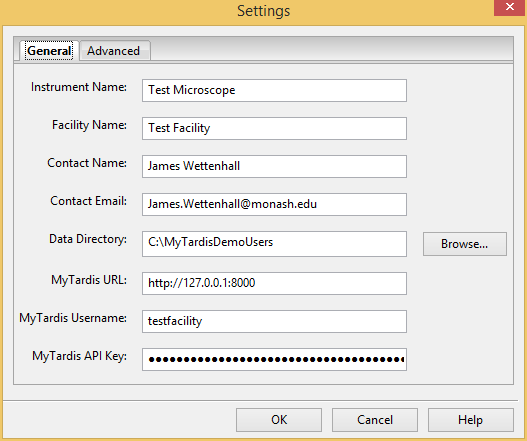
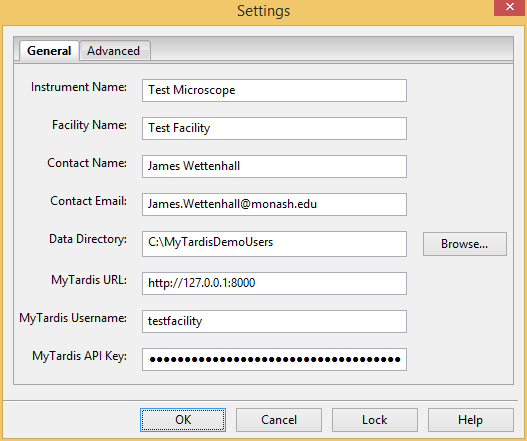
New Lock/Unlock feature in SettingsDialog allows locking settings to make it difficult to accidentally modify settings which shouldn't be modified in a production workflow, e.g. "folder structure".

diff --git a/SettingsDialog.py b/SettingsDialog.py
@@ -6,6 +6,7 @@ import threading
 from datetime import datetime
 import sys
 import os
+import traceback
 
 from logger.Logger import logger
 from SettingsModel import SettingsModel
@@ -332,6 +333,13 @@ class SettingsDialog(wx.Dialog):
         self.helpButton = wx.Button(self, wx.ID_HELP, "Help")
         buttonSizer.AddButton(self.helpButton)
 
+        # We need to use one of the standard IDs recognized by
+        # StdDialogSizer:
+        self.lockOrUnlockButton = wx.Button(self, wx.ID_APPLY, "Lock")
+        buttonSizer.AddButton(self.lockOrUnlockButton)
+        self.Bind(wx.EVT_BUTTON, self.OnLockOrUnlockSettings,
+                  self.lockOrUnlockButton)
+
         self.cancelButton = wx.Button(self, wx.ID_CANCEL, "Cancel")
         buttonSizer.AddButton(self.cancelButton)
         buttonSizer.Realize()
@@ -461,6 +469,25 @@ class SettingsDialog(wx.Dialog):
     def SetMaxUploadThreads(self, numberOfThreads):
         self.maximumUploadThreadsSpinCtrl.SetValue(numberOfThreads)
 
+    def Locked(self):
+        return self.lockOrUnlockButton.GetLabel() == "Unlock"
+
+    def SetLocked(self, locked):
+        """
+        When SettingsDialog is first displayed, it is in the unlocked
+        state, so the button label says "Lock" (allowing the user to
+        switch to the locked state).  When MyData reads the saved
+        settings from disk, if it finds that settings were saved in
+        the locked state, it will lock (disable) all of the dialog's
+        fields.
+        """
+        if locked:
+            self.DisableFields()
+            self.lockOrUnlockButton.SetLabel("Unlock")
+        else:
+            self.EnableFields()
+            self.lockOrUnlockButton.SetLabel("Lock")
+
     def OnCancel(self, event):
         self.EndModal(wx.ID_CANCEL)
 
@@ -540,6 +567,7 @@ class SettingsDialog(wx.Dialog):
             settingsModel.GetIgnoreOldDatasetIntervalUnit())
         self.SetMaxUploadThreads(settingsModel.GetMaxUploadThreads())
         self.SetCheckForMissingFolders(settingsModel.CheckForMissingFolders())
+        self.SetLocked(settingsModel.Locked())
 
     def OnPaste(self, event):
         textCtrl = wx.Window.FindFocus()
@@ -623,7 +651,8 @@ class SettingsDialog(wx.Dialog):
     def OnHelp(self, event):
         wx.BeginBusyCursor()
         import webbrowser
-        webbrowser.open("http://mydata.readthedocs.org/en/latest/settings.html")
+        webbrowser\
+            .open("http://mydata.readthedocs.org/en/latest/settings.html")
         wx.EndBusyCursor()
 
     def OnSelectFolderStructure(self, event):
@@ -648,6 +677,14 @@ class SettingsDialog(wx.Dialog):
             self.groupPrefixField.Show(True)
 
     def OnDropFiles(self, filepaths):
+        if self.Locked():
+            message = \
+                "Please unlock MyData's settings before importing " \
+                "a configuration file."
+            dlg = wx.MessageDialog(None, message, "MyData - Settings Locked",
+                                   wx.OK | wx.ICON_INFORMATION)
+            dlg.ShowModal()
+            return
         self.settingsModel.SetConfigPath(filepaths[0])
         self.settingsModel.LoadSettings()
         self.UpdateFieldsFromModel(self.settingsModel)
@@ -660,3 +697,84 @@ class SettingsDialog(wx.Dialog):
         else:
             self.groupPrefixLabel.Show(False)
             self.groupPrefixField.Show(False)
+
+    def OnLockOrUnlockSettings(self, event):
+        if self.lockOrUnlockButton.GetLabel() == "Lock":
+            message = "Once settings have been locked, only an administrator " \
+                "will be able to unlock them.\n\n" \
+                "Are you sure you want to lock MyData's settings?"
+            confirmationDialog = \
+                wx.MessageDialog(None, message, "MyData - Lock Settings",
+                                 wx.YES | wx.NO | wx.ICON_QUESTION)
+            okToLock = confirmationDialog.ShowModal()
+            if okToLock != wx.ID_YES:
+                return
+            lockingSettings = True
+            unlockingSettings = False
+            logger.debug("Locking settings.")
+            self.lockOrUnlockButton.SetLabel("Unlock")
+        else:
+            lockingSettings = False
+            unlockingSettings = True
+            logger.debug("Requesting privilege elevation and "
+                         "unlocking settings.")
+            if sys.platform.startswith("win"):
+                import win32com.shell.shell as shell
+                import win32con
+                from win32com.shell import shellcon
+                import ctypes
+                runningAsAdmin = ctypes.windll.shell32.IsUserAnAdmin()
+                params = "--version "
+
+                if not runningAsAdmin:
+                    logger.info("Attempting to run \"%s --version\" "
+                                "as an administrator." % sys.executable)
+                    try:
+                        procInfo = shell.ShellExecuteEx(
+                            nShow=win32con.SW_SHOWNORMAL,
+                            fMask=shellcon.SEE_MASK_NOCLOSEPROCESS,
+                            lpVerb='runas',
+                            lpFile=sys.executable,
+                            lpParameters=params)
+                        procHandle = procInfo['hProcess']
+                    except:
+                        logger.error("User privilege elevation failed.")
+                        logger.debug(traceback.format_exc())
+                        return
+            elif sys.platform.startswith("darwin"):
+                logger.info("Attempting to run "
+                            "\"echo MyData privilege elevation\" "
+                            "as an administrator.")
+                returncode = os.system("osascript -e "
+                                       "'do shell script "
+                                       "\"echo MyData privilege elevation\" "
+                                       "with administrator privileges'")
+                if returncode != 0:
+                    raise Exception("Failed to get admin privileges.")
+            self.lockOrUnlockButton.SetLabel("Lock")
+
+        self.EnableFields(unlockingSettings)
+
+    def EnableFields(self, enabled=True):
+        self.instrumentNameField.Enable(enabled)
+        self.facilityNameField.Enable(enabled)
+        self.contactNameField.Enable(enabled)
+        self.contactEmailField.Enable(enabled)
+        self.dataDirectoryField.Enable(enabled)
+        self.browseDataDirectoryButton.Enable(enabled)
+        self.myTardisUrlField.Enable(enabled)
+        self.usernameField.Enable(enabled)
+        self.apiKeyField.Enable(enabled)
+        self.folderStructureComboBox.Enable(enabled)
+        self.datasetGroupingField.Enable(enabled)
+        self.groupPrefixField.Enable(enabled)
+        self.checkForMissingFoldersCheckBox.Enable(enabled)
+        self.ignoreDatasetsOlderThanCheckBox.Enable(enabled)
+        self.ignoreDatasetsOlderThanSpinCtrl\
+            .Enable(enabled)
+        self.intervalUnitsComboBox.Enable(enabled)
+        self.maximumUploadThreadsSpinCtrl.Enable(enabled)
+        self.Update()
+
+    def DisableFields(self):
+        self.EnableFields(False)

diff --git a/SettingsModel.py b/SettingsModel.py
@@ -45,6 +45,23 @@ class SettingsModel():
     def __init__(self, configPath=None):
         self.SetConfigPath(configPath)
 
+        self.background_mode = "False"
+
+        self.uploaderModel = None
+        self.uploadToStagingRequest = None
+        self.sshKeyPair = None
+
+        self.validation = self.SettingsValidation(True)
+        self.incompatibleMyTardisVersion = False
+
+        self.LoadSettings()
+
+    def LoadSettings(self, configPath=None):
+        """
+        Sets some default values for settings fields, then loads a settings
+        file,
+        e.g. C:\Users\jsmith\AppData\Local\Monash University\MyData\MyData.cfg
+        """
         self.instrument_name = ""
         self.instrument = None
         self.facility_name = ""
@@ -65,18 +82,8 @@ class SettingsModel():
         self.max_upload_threads = 5
         self.check_for_missing_folders = False
 
-        self.background_mode = "False"
+        self.locked = False
 
-        self.uploaderModel = None
-        self.uploadToStagingRequest = None
-        self.sshKeyPair = None
-
-        self.validation = self.SettingsValidation(True)
-        self.incompatibleMyTardisVersion = False
-
-        self.LoadSettings()
-
-    def LoadSettings(self, configPath=None):
         if configPath is None:
             configPath = self.GetConfigPath()
 
@@ -92,7 +99,7 @@ class SettingsModel():
                           "username", "api_key", "folder_structure",
                           "dataset_grouping", "group_prefix",
                           "ignore_interval_unit", "max_upload_threads",
-                          "check_for_missing_folders"]
+                          "check_for_missing_folders", "locked"]
                 for field in fields:
                     if configParser.has_option(configFileSection, field):
                         self.__dict__[field] = \
@@ -117,6 +124,10 @@ class SettingsModel():
                     self.check_for_missing_folders = \
                         configParser.getboolean(configFileSection,
                                                 "check_for_missing_folders")
+                if configParser.has_option(configFileSection,
+                                           "locked"):
+                    self.locked = configParser.getboolean(configFileSection,
+                                                          "locked")
             except:
                 logger.error(traceback.format_exc())
 
@@ -201,6 +212,12 @@ class SettingsModel():
 
     def SetCheckForMissingFolders(self, checkForMissingFolders):
         self.check_for_missing_folders = checkForMissingFolders
+
+    def Locked(self):
+        return self.locked
+
+    def SetLocked(self, locked):
+        self.locked = locked
 
     def GetDatasetGrouping(self):
         return self.dataset_grouping
@@ -289,7 +306,7 @@ class SettingsModel():
                       "dataset_grouping", "group_prefix",
                       "ignore_old_datasets", "ignore_interval_number",
                       "ignore_interval_unit", "max_upload_threads",
-                      "check_for_missing_folders"]
+                      "check_for_missing_folders", "locked"]
             for field in fields:
                 configParser.set("MyData", field, self.__dict__[field])
             configParser.write(configFile)
@@ -317,6 +334,7 @@ class SettingsModel():
             settingsDialog.GetIgnoreOldDatasetIntervalUnit())
         self.SetMaxUploadThreads(settingsDialog.GetMaxUploadThreads())
         self.SetCheckForMissingFolders(settingsDialog.CheckForMissingFolders())
+        self.SetLocked(settingsDialog.Locked())
 
         # self.mydataConfigPath could be None for the temporary
         # settingsModel created during SettingsDialog's validation.
